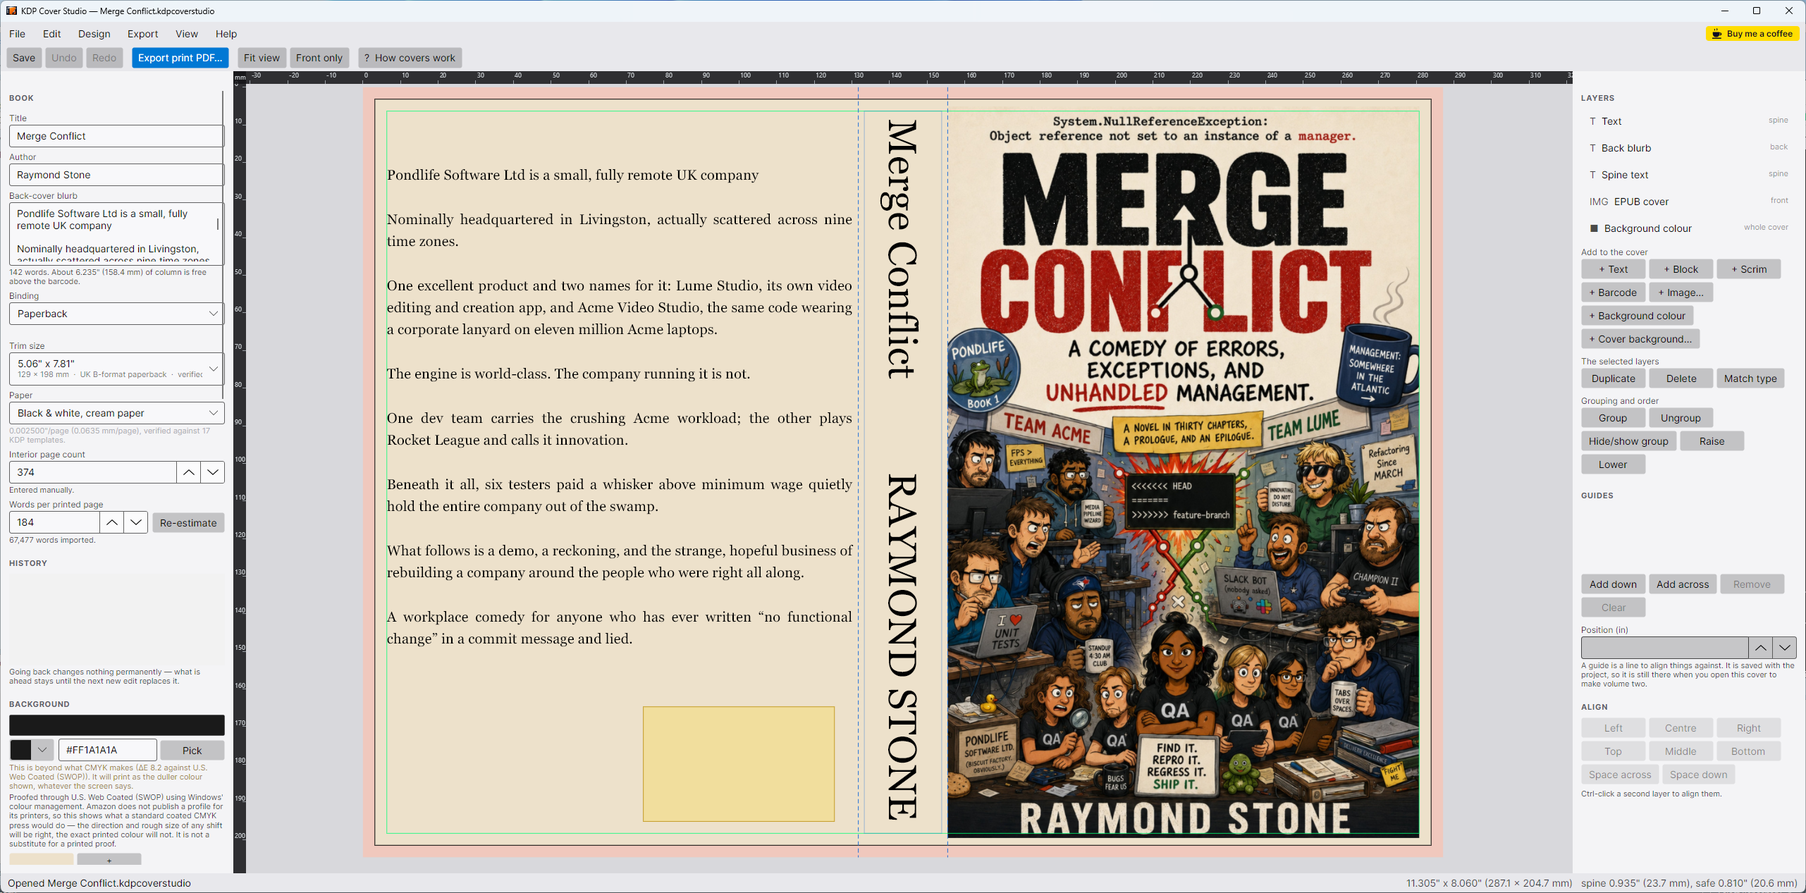
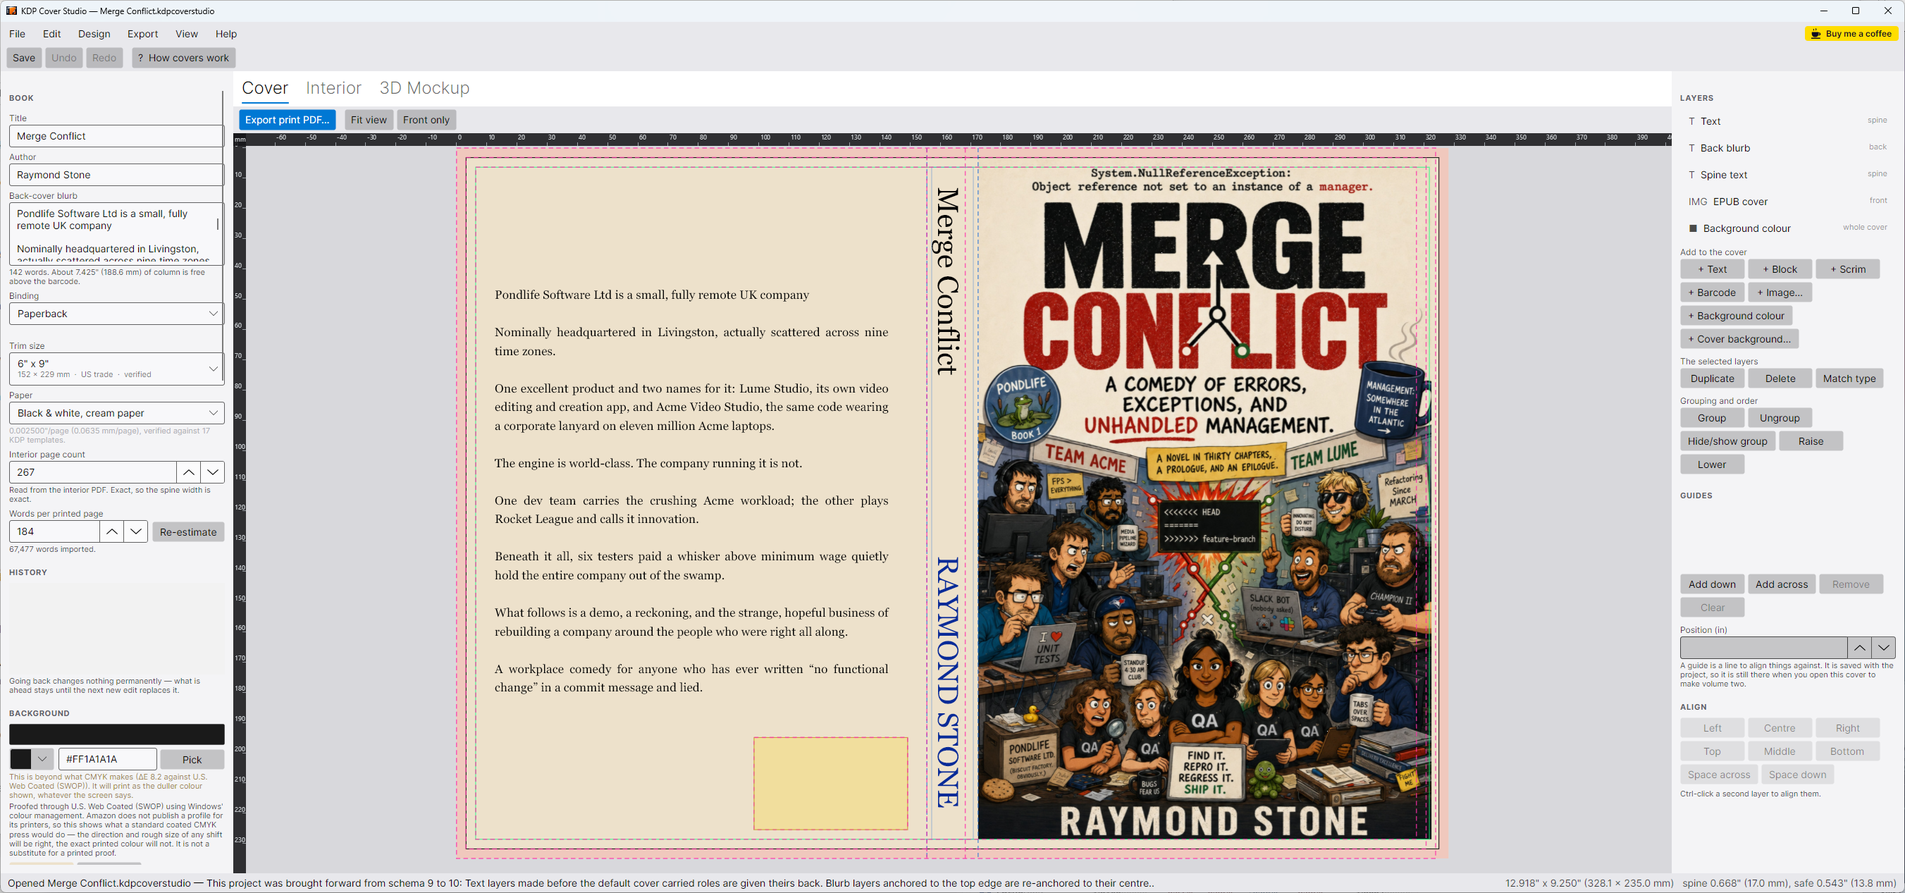
Document 1.3.3: the interior, and a guided flow from EPUB to both files
The app now formats the book inside and out, so the README leads with the
five-step guided setup and gives the interior a section of its own rather
than a line in the page-count table.

New screenshots for the tabbed workspace, the wizard's interior step, a
two-page spread and the mockup's two faces; the cover, hardcover, barcode
and launch shots retaken at 1.3.3 so the window chrome matches throughout.

diff --git a/README.md b/README.md
@@ -1,6 +1,6 @@
 # KDP Cover Studio
 
-A Windows desktop app for designing print-ready Amazon KDP covers — paperback or case laminate hardcover, back, spine and front as a single wrap — and exporting the PDF that KDP actually accepts.
+A Windows desktop app that formats a book **inside and out** — the print-ready KDP cover, with back, spine and front as a single wrap, and the book's own typeset pages — and exports the two files KDP asks for. A guided setup takes an EPUB to both.
 
 **[Download the latest release »](https://github.com/raymondjstone/KDP-Cover-Studio/releases/latest)**
 
@@ -8,9 +8,39 @@ A Windows desktop app for designing print-ready Amazon KDP covers — paperback 
 
 ---
 
+## From a manuscript to both files, in five steps
+
+![The guided setup](docs/screenshots/08-guided-setup.png)
+
+**File ▸ Set up a book from an EPUB…** asks five questions and nothing else: the manuscript, the book, the interior, the cover, and what it made.
+
+It exists because of the failure the interior formatter was written after: **two KDP rejections in one afternoon, both a cover whose spine disagreed with the interior that was uploaded**. The spine is made of the page count and nothing else, and until the pages are actually set, the page count is an estimate. So the wizard sets the book's own pages first, and the cover it then draws is drawn for that exact number.
+
+| Step | What it settles |
+|---|---|
+| **The manuscript** | An EPUB supplies the title, the author, the blurb and the length. You can go on without one and type the title yourself |
+| **The book** | Binding, trim size and paper — the three fields that re-flow every layer, so they are asked before anything is drawn. They start as your defaults |
+| **The interior** | Body face, size, leading, an optional title page. Press *Set the book now* and the page count stops being an estimate |
+| **The cover** | A design, the EPUB's own artwork, and the option to draw the wrap's background colour out of that artwork so the three panels read as one book |
+| **What it made** | A summary. **Nothing has been written to disk** — the cover opens in the editor and saving is yours to do |
+
+Every step is skippable and nothing it sets is final: what comes out is an ordinary project, in the ordinary editor, with ordinary layers. And the book it composed is **handed to the Interior tab rather than thrown away**, so the tab opens on the pages you have just seen counted instead of asking for the manuscript a second time.
+
+The same pipeline runs from the command line, because a batch processor with its own generation logic would drift from the app it automates:
+
+```
+KDPCoverStudio.exe book.epub --interior --size 6x9 --paper cream --out folder
+```
+
+An EPUB path is what selects batch mode — a bare path is also how Windows hands over a double-clicked project, and that has to open the editor rather than start a silent export. Preflight still decides what may be written, every problem is reported rather than just the first, and the project file is written first and always, because it is the one output somebody can open and correct.
+
+---
+
 ## What it does
 
-You set the binding, the trim size, the paper and the interior page count. The app derives the wrap geometry from those — spine width, bleed, safe areas, fold tolerance, hinges, barcode reserve — and draws it to scale. You drag artwork onto a panel, set the type, and export.
+The window is three views of one project — **Cover**, **Interior** and **3D Mockup** — not three programs. They share the book: the trim, the paper and the page count sit down the left of all three, because those are the book itself and everything on every tab is derived from them.
+
+On the Cover tab you set the binding, the trim size, the paper and the interior page count. The app derives the wrap geometry from those — spine width, bleed, safe areas, fold tolerance, hinges, barcode reserve — and draws it to scale. You drag artwork onto a panel, set the type, and export.
 
 ![The cover editor](docs/screenshots/01-editor.png)
 
@@ -60,13 +90,45 @@ Every dimension on screen carries both units: `0.450" (11.4 mm)`. There is no un
 
 ---
 
+## The book's own pages
+
+![The interior, as a two-page spread](docs/screenshots/09-interior.png)
+
+The **Interior** tab lays out the manuscript itself: choose the EPUB, pick the face and the size, set the book, page through it, export the PDF. It used to be a dialog reached from a menu, which was the wrong shape — the interior is half of what gets uploaded, and the page count it produces is the number the cover's spine is made of. As a tab it keeps its state, and the manuscript it uses is the project's own.
+
+**The button that matters is "Use this page count for the cover".** A count that comes out of the file this app has just written is exact by construction, and it arrives marked as exact, so nothing downstream treats it as a guess.
+
+### The gutter is a fixed point
+
+KDP's inside margin steps with the page count — a thicker book does not open as flat — so the margin depends on the length, and the length depends on the margin. There is no closed form, so the formatter iterates: compose, ask what gutter that many pages needs, compose again if the answer changed. A narrower column is always longer, so the iteration is monotone and comes to rest; the guard against oscillation is there anyway, and takes the **wider** gutter if one comes round twice, because KDP's figure is a minimum and more is always acceptable.
+
+Most books settle on the first pass — the default layout's own gutter is 0.75" and KDP's step only exceeds it past 500 pages. The iteration exists for the long ones, which are exactly the books where getting it wrong costs the most.
+
+### What it sets
+
+| | |
+|---|---|
+| **Front matter** | The EPUB's own is dropped and the book gets its own, so a half-title left over from an ebook does not print. An optional **title page designer** carries the title, subtitle, author, series line, imprint and copyright page — seeded from the project, all of it editable. The app writes the year and the convention and never somebody's rights paragraph |
+| **Back matter** | An **"Also by" list**, imported from a `.txt` or `.md` file — one title per line. It belongs to the author rather than to this book, so it lives in one file and every book picks it up on the way to the printer. Markdown is stripped rather than honoured, because the interior carries no styling and the asterisks would print |
+| **Pictures** | Resolved relative to the document that names them, not to the book — matching on filename alone finds the wrong picture the moment two chapters both have a `fig1.jpg` |
+| **Type it cannot draw** | A face without a glyph is reported, and the run is drawn from a face that has it rather than printing `.notdef` |
+| **Two-page spreads** | The only way to see the faults worth seeing — a blank in an awkward place, a chapter opening on the wrong side, a heading stranded at a turn. Page one is a recto, so the first spread has nothing on its left |
+| **Deleting a page** | Subtractive rather than a re-flow, and the renumbering **turns every page after it over**: the gutter moves to the other edge and the running head changes sides. That is what happens in a real book |
+
+**And it can check an interior PDF, including one made elsewhere.** Page count against the cover's — judged by the fold error, which is what KDP actually refuses over — page size against trim and trim-plus-bleed, one page size throughout, the page limit for the binding and paper, and an odd page count, which KDP silences by adding a blank *after* whatever the author thought was the last page. The gutter minimum is stated rather than measured: finding the text block on a page carrying a running head, a folio and a drop cap is guesswork, and being wrong reports a good book as broken.
+
+Where both can be run, this is the stronger of the two checks — an interior PDF states its page count, while a cover PDF only lets one be recovered to within a page or two.
+
+---
+
 ## Features
 
 ### Page count without guessing
 
 | Source | Accuracy |
 |---|---|
-| Interior PDF | Exact, authoritative — read straight from the file |
+| The interior this app sets | Exact by construction — it counted the pages it wrote |
+| An interior PDF | Exact, authoritative — read straight from the file |
 | EPUB estimate | A **range**, never a bare number |
 | Manual | Whatever you enter |
 
@@ -106,6 +168,10 @@ Applying a template is a re-placement, not a copy: every layer is repositioned r
 
 **Series mode** shares a binding, trim size, paper and design across volumes; only the title, artwork and page count differ — and the page count is what makes each spine a different width. The consistency check names the volume that is out of step, and will now **fix what it finds** rather than only reporting it. Spine type is exempt from the comparison, because a different spine per volume is what a series *is*. Batch export refuses one volume and still writes the rest.
 
+**Start the next volume from this one.** Most series are written one book at a time, and what people do is Save As and edit — and every field they forget to edit ships. This carries the design and clears what the book *is*: the blurb goes, from the document and its layer, the ISBN goes from every barcode layer, the page count is demoted to manual, and the volume number moves on by one. Every one of those is named in the notes rather than done quietly. It opens with **no file path**, so a reflexive Ctrl+S cannot overwrite volume one with volume two. And a trailing number is only advanced where a word marks it as a volume number — *1984* and *Catch 22* are titles, and an app that shipped *Catch 23* would have earned every word said about it.
+
+**A series builds its interiors beside its covers.** Give each volume a manuscript and the interior is set **first**, so each spine is drawn from the count that came out of the file just written rather than from a number somebody typed five times. A volume with no manuscript loses its interior and nothing else; four good volumes still go.
+
 ### Type
 
 **Fit type to its box** by bisection, because the line count is a step function of the size and the closed form overshoots — by 76% in the modelled case. **Justified back-cover copy** is stretched after shaping, so the kerning survives; the gaps are found from the source text, because a glyph id does not know what character made it. **Spine type refits itself when the spine narrows**, which is what happens when the page count drops.
@@ -140,6 +206,24 @@ Multi-select, **align and distribute**, and snapping — to the guides, to other
 
 **The undo stack is something you can look at** — every edit, oldest first, click one to put the cover back to how it was after it. Going back changes nothing permanently: what is ahead stays until the next new edit replaces it.
 
+### Defaults that are about you, not about the book
+
+![Settings](docs/screenshots/10-settings.png)
+
+An application default is a fact about how you publish; a project setting is a fact about one book. Conflate the two and either a default reaches into a cover already made, or opening a project somebody sent you changes what your next book looks like.
+
+So **Settings** holds only what a *new* project starts with — binding, trim, paper, starting page count, and how a new interior is set — and it is applied once, before any layer is placed. Changing it never touches a cover already made. Everything else stays beside the thing it acts on, down the left of the main window, because a second control for one preference is one control that goes stale.
+
+### Editing, with fewer clicks
+
+**A single click on text opens the editor over it**, which halves the clicks in the thing this app is used for most. It is decided on release rather than on the press, or a text layer would stop being draggable; turned and arced type is not armed at all, because the editor refuses both and saying so on every single click is noise.
+
+**Copy, paste and duplicate** work on layers, with the ordinary shortcuts. The clipboard is in-application and deliberately not the system one — what is copied is a rectangle in layout inches, a role, a face, a crop and a path into this project's assets, none of which means anything to another program, and putting it on the Windows clipboard would replace whatever text you had copied. It is static, so it outlives the document: copying a series strapline, opening volume two and pasting it there is the most useful thing it does. Every paste is offset, except where a layer fills its panel and moving it would shift its crop instead.
+
+**A right click asks for a menu, and selects what it landed on first** — a context menu acting on a selection made somewhere else is the commonest way to delete the wrong thing. It carries where the click was, so "add a text block here" puts the block there.
+
+**A layer belongs to the panel it is sitting on.** The panel used to be a dropdown, so dragging the back-cover blurb onto the front left a layer that was visibly on the front and still called Back — snapping to the back cover's guides and checked against a barcode reserve on the other side of the book. Position is the authority now, decided by the layer's centre, inside the same undo entry as the drag. Type crossing onto the spine is **turned** to read down the book and capped to the safe width, because a 44pt title lying flat on a half-inch spine is not a spine title; leaving the spine sets it upright again.
+
 ### Colour
 
 Background, text, text outline and colour blocks are all editable, each with a picker, a hex box and an eyedropper. The hex box matters: a cover often has to match a series or an imprint's palette, and those arrive as `#1E6FD9`, not as a position on a wheel.
@@ -156,7 +240,7 @@ A **palette** travels with the document rather than living in settings — it is
 
 A pane showing the **front panel, trimmed, at about 40 mm** — the size a shop actually shows a cover, and the size at which you should judge it. Trimmed rather than with bleed, because the bleed is guillotined off before anybody sees it and including it flatters the design. It renders through the same exporter as the print file, so it cannot show you something kinder than what prints.
 
-**Whether the title survives shop size is measured, not eyeballed** — contrast against what is actually behind the type, at the size it will be seen. And **two covers can be put side by side** at that size, which is the only way to judge a series as a series.
+**Whether the title survives shop size is measured, not eyeballed** — contrast against what is actually behind the type, at the size it will be seen. Where the two colours are plainly different and the contrast is short, the finding says **it is the colour holding the type apart, not the lightness**: a vivid red title on a vivid green ground reads perfectly well in colour and is lost on a Kindle's e-ink screen and in anything printed in black and white. Reported at 1.1:1 with no reason given, that reads as the app being broken. And **two covers can be put side by side** at that size, which is the only way to judge a series as a series.
 
 ### Live preflight
 
@@ -194,19 +278,23 @@ Transparency is flattened **without losing the type**. Rasterising the whole cov
 
 *Worth knowing:* a translucent layer at the very top of the stack forces the whole cover to be flattened. If a design loses its sharp type, look for a translucent element sitting over everything.
 
+**Interior PDF** — the book's own pages, written from the Interior tab, at the trim the cover is drawn for. The preview goes through the same drawing code as the writer, because a formatter whose preview lies is worse than none.
+
 **Ebook cover JPEG** — a standalone front cover at the aspect ratio the store wants, with each option explained in terms of what it costs on this book.
 
 **Everything, in one press** — every output the cover produces, into one folder. A layer error refuses only the outputs that show that layer, rather than the whole batch.
 
-**A 3D mockup PNG** for a listing or a post. It is the one renderer allowed to flatter, so nothing that judges the design is permitted to read it.
+**A 3D mockup PNG** for a listing or a post — now of **both sides of the book**. The back is the one carrying the blurb and the barcode, and it was the one thing here nothing had ever drawn as an object. It is drawn rather than flipped, because a horizontal flip would print the blurb backwards; what changes is which panel stands upright and which way the spine is sheared. Both are shown side by side, at one height, and written from one file dialog — a second dialog is the step at which one of a pair ends up in a different folder.
 
-![3D mockup render](docs/screenshots/07-mockup.png)
+It is the one renderer allowed to flatter, so nothing that judges the design is permitted to read it.
+
+![3D mockup render, front and back](docs/screenshots/07-mockup.png)
 
 **A cover specification for a designer** — every measurement somebody needs before drawing anything, as text, for the case where the artwork is being made elsewhere.
 
 **Proof checklist** — written for a **bound** copy, which is what KDP sends. Half the useful measurements only exist once the thing is folded.
 
-**And it can check a cover PDF, including one this app did not make.** It recovers the page count the cover was drawn for by solving back through the geometry, and leads with the fold error, which is exact. The recovered count cannot be: one page of B&W white is 0.162 pt of spine, KDP rounds its declared page size to whole points and the writer quantises it again — so it says "about 310 pages (within 2)" rather than inventing precision.
+**And it can check a cover PDF, including one this app did not make.** It recovers the page count the cover was drawn for by solving back through the geometry, and leads with the fold error, which is exact. The recovered count cannot be: one page of B&W white is 0.162 pt of spine, KDP rounds its declared page size to whole points and the writer quantises it again — so it says "about 310 pages (within 2)" rather than inventing precision. **An interior PDF can be checked too**, and that is the stronger half of the same question, because an interior states its page count instead of having it recovered.
 
 ### Your work is kept safe
 
@@ -214,13 +302,17 @@ Autosaves go to `%LOCALAPPDATA%\KDPCoverStudio\recovery\`, **never to your proje
 
 The copy is a full package including artwork, because autosaving just the document recovers a cover with every image missing — which *looks* like it worked.
 
-The app reopens the file you had open, comes back the size and place you left it, and asks before discarding unsaved changes. A log is written to `%LOCALAPPDATA%\KDPCoverStudio\logs\`, readable while the app runs.
+The app reopens the file you had open, comes back the size and place you left it, and **asks before discarding unsaved changes — on every command that replaces the open cover**: New, Open (and Open recent), the guided setup and "start the next volume". Only the guided setup used to ask, so Ctrl+N on an hour's work lost the hour. Save, Don't save, Cancel, from the same dialog the close path uses. A log is written to `%LOCALAPPDATA%\KDPCoverStudio\logs\`, readable while the app runs.
 
 ### Help that is drawn to your book
 
 ![How a KDP cover works](docs/screenshots/05-how-covers-work.png)
 
 The anatomy diagram is rendered from your cover's own geometry. A 90-page paperback shows a spine sliver captioned "usable 2.0 mm"; a 700-page one shows a spine wide enough to design into. Amazon's illustration shows one example and always will. The other tabs — what KDP requires, book sizes, distribution, and Amazon's own pages — answer their questions for the cover actually open, on the same footing.
+
+A **handbook** covers the whole application in prose, in fourteen sections — getting started, creating a project, cover formatting, safe zones, text blocks, the spine, the interior, EPUB import, the title page, "Also by", the interior preview, the 3D preview, generating the KDP files, and troubleshooting. **About** carries the version, the author and a limitation of responsibility that is deliberately specific: not "no warranty of any kind", but the four things that actually go wrong here — a design that breaks a rule this app does not know, KDP changing a specification, a press printing differently from the screen, and a page count somebody typed wrong.
+
+**Send feedback** sorts a report into general, bug, or printing and KDP, because the useful evidence differs: a printing problem needs the four numbers the sheet size comes from and Amazon's own rejection message, where a log file says nothing at all. **Nothing is sent that is not shown first.** The manuscript, the blurb, the artwork and the project file are never in a report; the title and author are, because a rejection message quotes them, and they can be taken out.
 
 ---
 
@@ -243,16 +335,18 @@ Projects are saved as `.kdpcoverstudio` — a ZIP holding the document plus a co
 
 ## Current release
 
-**Version 1.3.1** — `KDPCoverStudio.msi`, 53.3 MB. See the [release notes](https://github.com/raymondjstone/KDP-Cover-Studio/releases/latest) for what changed.
+**Version 1.3.3** — `KDPCoverStudio.msi`, 53.6 MB. See the [release notes](https://github.com/raymondjstone/KDP-Cover-Studio/releases/latest) for what changed.
 
-Verified at build: **1256/1256 tests** and **390/390 template assertions across 39 templates**.
+Verified at build: **1741 tests** (1740 passing, one skipped) and **390/390 template assertions across 39 templates**.
 
 ### Known limitations
 
+- **The interior formatter is written for prose.** Tables, footnotes, verse, indexes and drop caps are not in it. Each is real work and none of them is a novel.
+- **The exported PDFs are plain PDF, not PDF/X-1a.** KDP says PDF/X "preferred" and accepts plain PDF, which is first on its own list of formats; PDF/X needs an output intent and CMYK the renderer will not write. Fonts are embedded as subsets, which is the same class of recommendation.
 - **The soft proof is a standard SWOP profile, not Amazon's press.** Amazon publishes no ICC profile for its printers, so the closest honest answer is a standard coated CMYK profile — which is what every string the feature produces names. A better profile dropped into Windows' colour folder is picked up without a code change.
 - **Two hardcover figures where Amazon's prose disagrees with Amazon's artwork**, recorded rather than resolved: the safe area (16 mm stated, 18.2 mm measured) and the barcode inset (19 mm stated, 0.25" above the safe area measured). The app follows the artwork, which is what gets printed.
 - **The prose-only rules are transcribed, not derived.** Page-count limits, Expanded Distribution eligibility and the minimum type size come from Amazon's help pages rather than from the templates, so nothing here would notice Amazon changing them. Each carries the date it was checked and a link to its source.
-- **A page count recovered from an existing cover PDF is ±2 pages.** The fold error it reports alongside is exact.
+- **A page count recovered from an existing cover PDF is ±2 pages.** The fold error it reports alongside is exact, and an interior PDF simply states its count, so where both exist the interior is the one to believe.
 - **No proof has been physically printed.** Everything is verified numerically against Amazon's templates, but the final check on colour and on how the spine fold actually lands is a printed copy.
 
 ---
